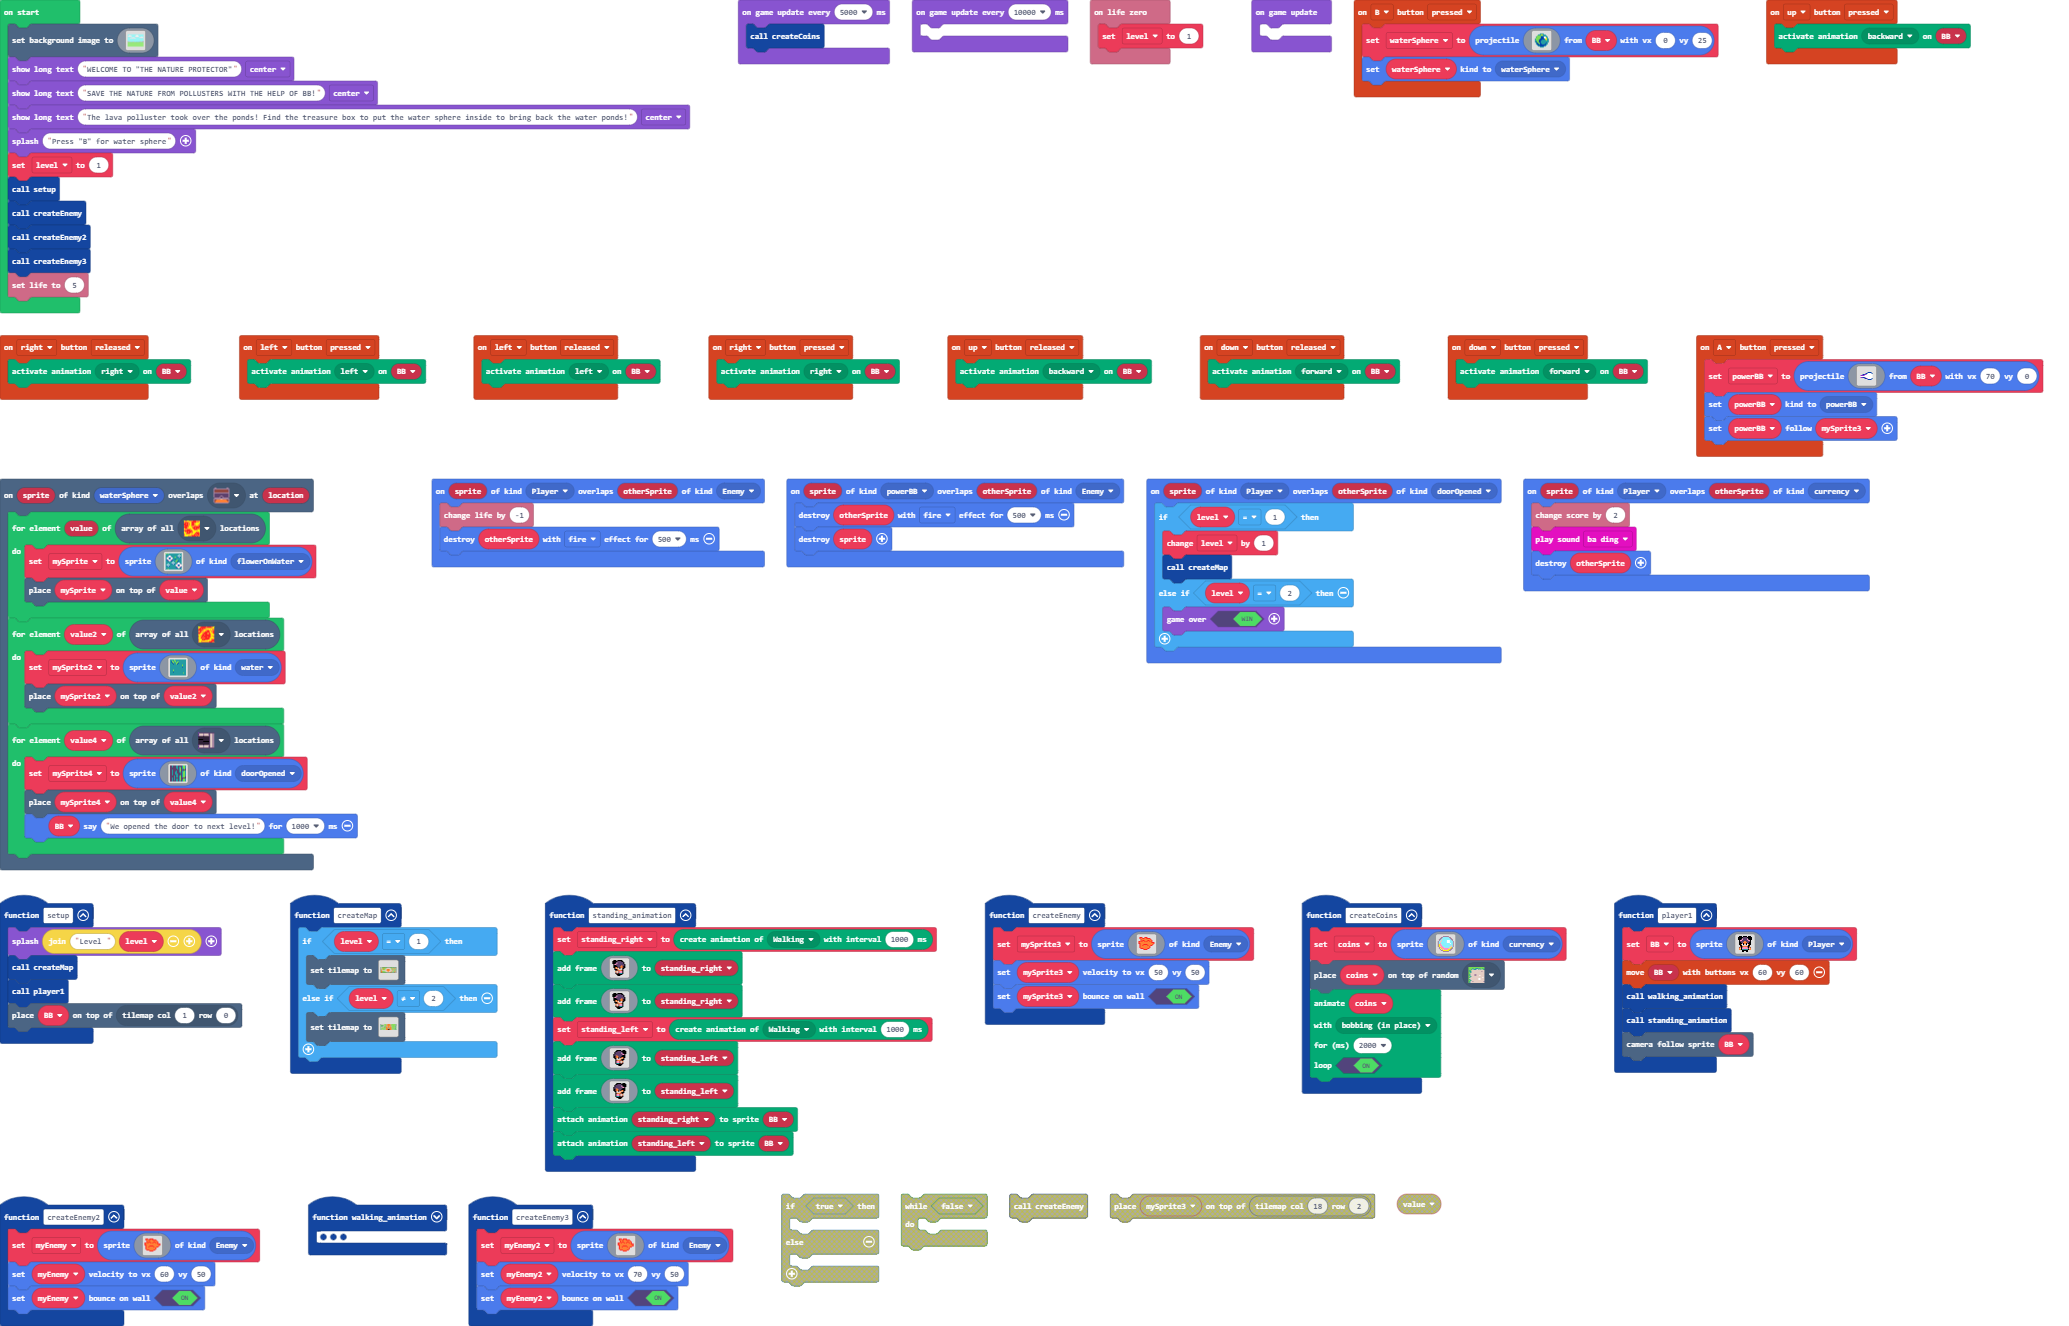
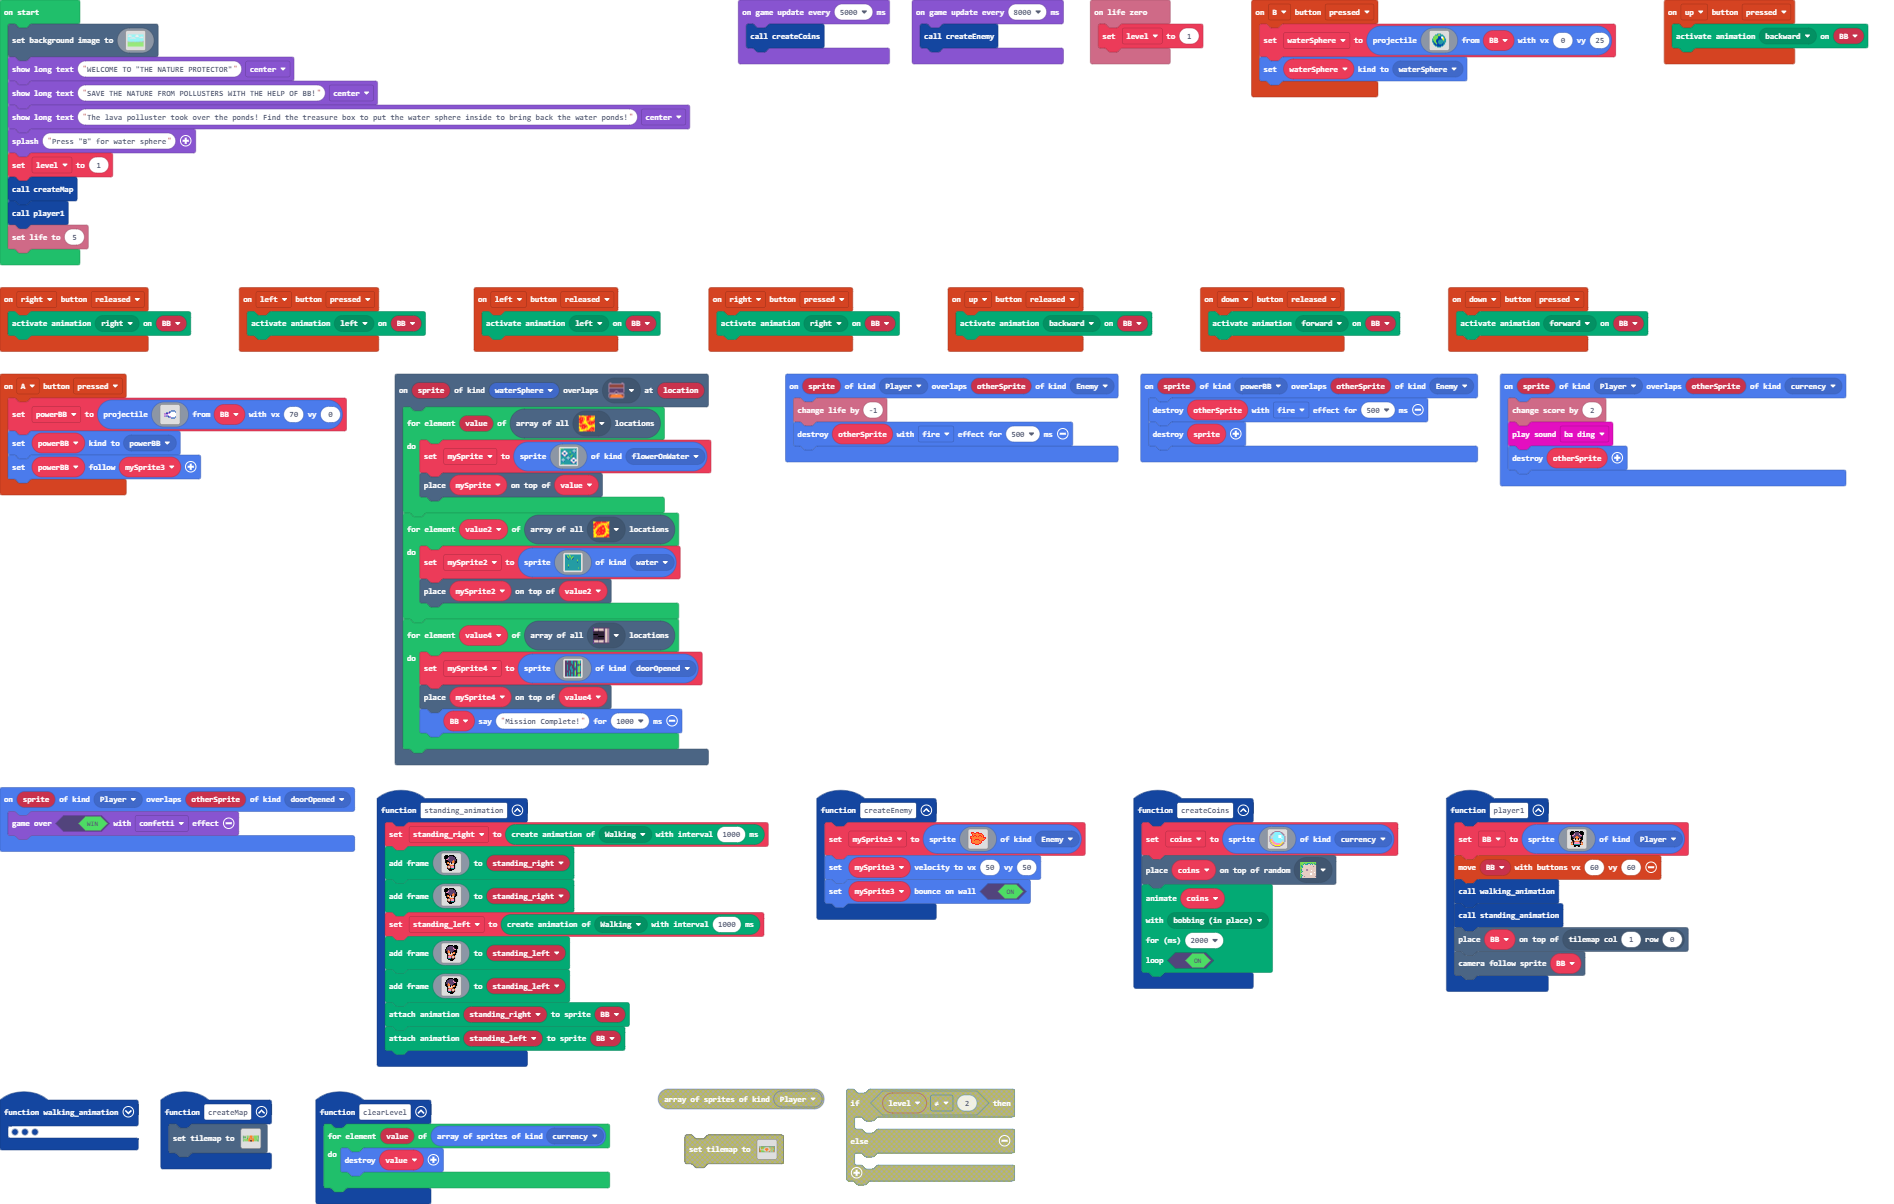
Finished Game!

diff --git a/tilemap.g.ts b/tilemap.g.ts
@@ -317,6 +317,120 @@ namespace myTiles {
 . . . . . . . . . . . . . . . . 
 . . . . . . . . . . . . . . . . 
 `, [myTiles.transparency16], TileScale.Sixteen);
+            case "level15":
+            case "level15":return tiles.createTilemap(hex`1000100000000000000000000000000000000000000000000000000000000000000000000000000000000000000000000000000000000000000000000000000000000000000000000000000000000000000000000000000000000000000000000000000000000000000000000000000000000000000000000000000000000000000000000000000000000000000000000000000000000000000000000000000000000000000000000000000000000000000000000000000000000000000000000000000000000000000000000000000000000000000000000000000000000000000000000000000000000000000000000000000000000000000000000000000000000000`, img`
+. . . . . . . . . . . . . . . . 
+. . . . . . . . . . . . . . . . 
+. . . . . . . . . . . . . . . . 
+. . . . . . . . . . . . . . . . 
+. . . . . . . . . . . . . . . . 
+. . . . . . . . . . . . . . . . 
+. . . . . . . . . . . . . . . . 
+. . . . . . . . . . . . . . . . 
+. . . . . . . . . . . . . . . . 
+. . . . . . . . . . . . . . . . 
+. . . . . . . . . . . . . . . . 
+. . . . . . . . . . . . . . . . 
+. . . . . . . . . . . . . . . . 
+. . . . . . . . . . . . . . . . 
+. . . . . . . . . . . . . . . . 
+. . . . . . . . . . . . . . . . 
+`, [myTiles.transparency16], TileScale.Sixteen);
+            case "level16":
+            case "level16":return tiles.createTilemap(hex`1000100000000000000000000000000000000000000000000000000000000000000000000000000000000000000000000000000000000000000000000000000000000000000000000000000000000000000000000000000000000000000000000000000000000000000000000000000000000000000000000000000000000000000000000000000000000000000000000000000000000000000000000000000000000000000000000000000000000000000000000000000000000000000000000000000000000000000000000000000000000000000000000000000000000000000000000000000000000000000000000000000000000000000000000000000000000000`, img`
+. . . . . . . . . . . . . . . . 
+. . . . . . . . . . . . . . . . 
+. . . . . . . . . . . . . . . . 
+. . . . . . . . . . . . . . . . 
+. . . . . . . . . . . . . . . . 
+. . . . . . . . . . . . . . . . 
+. . . . . . . . . . . . . . . . 
+. . . . . . . . . . . . . . . . 
+. . . . . . . . . . . . . . . . 
+. . . . . . . . . . . . . . . . 
+. . . . . . . . . . . . . . . . 
+. . . . . . . . . . . . . . . . 
+. . . . . . . . . . . . . . . . 
+. . . . . . . . . . . . . . . . 
+. . . . . . . . . . . . . . . . 
+. . . . . . . . . . . . . . . . 
+`, [myTiles.transparency16], TileScale.Sixteen);
+            case "level17":
+            case "level17":return tiles.createTilemap(hex`1000100000000000000000000000000000000000000000000000000000000000000000000000000000000000000000000000000000000000000000000000000000000000000000000000000000000000000000000000000000000000000000000000000000000000000000000000000000000000000000000000000000000000000000000000000000000000000000000000000000000000000000000000000000000000000000000000000000000000000000000000000000000000000000000000000000000000000000000000000000000000000000000000000000000000000000000000000000000000000000000000000000000000000000000000000000000000`, img`
+. . . . . . . . . . . . . . . . 
+. . . . . . . . . . . . . . . . 
+. . . . . . . . . . . . . . . . 
+. . . . . . . . . . . . . . . . 
+. . . . . . . . . . . . . . . . 
+. . . . . . . . . . . . . . . . 
+. . . . . . . . . . . . . . . . 
+. . . . . . . . . . . . . . . . 
+. . . . . . . . . . . . . . . . 
+. . . . . . . . . . . . . . . . 
+. . . . . . . . . . . . . . . . 
+. . . . . . . . . . . . . . . . 
+. . . . . . . . . . . . . . . . 
+. . . . . . . . . . . . . . . . 
+. . . . . . . . . . . . . . . . 
+. . . . . . . . . . . . . . . . 
+`, [myTiles.transparency16], TileScale.Sixteen);
+            case "level18":
+            case "level18":return tiles.createTilemap(hex`1000100000000000000000000000000000000000000000000000000000000000000000000000000000000000000000000000000000000000000000000000000000000000000000000000000000000000000000000000000000000000000000000000000000000000000000000000000000000000000000000000000000000000000000000000000000000000000000000000000000000000000000000000000000000000000000000000000000000000000000000000000000000000000000000000000000000000000000000000000000000000000000000000000000000000000000000000000000000000000000000000000000000000000000000000000000000000`, img`
+. . . . . . . . . . . . . . . . 
+. . . . . . . . . . . . . . . . 
+. . . . . . . . . . . . . . . . 
+. . . . . . . . . . . . . . . . 
+. . . . . . . . . . . . . . . . 
+. . . . . . . . . . . . . . . . 
+. . . . . . . . . . . . . . . . 
+. . . . . . . . . . . . . . . . 
+. . . . . . . . . . . . . . . . 
+. . . . . . . . . . . . . . . . 
+. . . . . . . . . . . . . . . . 
+. . . . . . . . . . . . . . . . 
+. . . . . . . . . . . . . . . . 
+. . . . . . . . . . . . . . . . 
+. . . . . . . . . . . . . . . . 
+. . . . . . . . . . . . . . . . 
+`, [myTiles.transparency16], TileScale.Sixteen);
+            case "level19":
+            case "level19":return tiles.createTilemap(hex`1000100000000000000000000000000000000000000000000000000000000000000000000000000000000000000000000000000000000000000000000000000000000000000000000000000000000000000000000000000000000000000000000000000000000000000000000000000000000000000000000000000000000000000000000000000000000000000000000000000000000000000000000000000000000000000000000000000000000000000000000000000000000000000000000000000000000000000000000000000000000000000000000000000000000000000000000000000000000000000000000000000000000000000000000000000000000000`, img`
+. . . . . . . . . . . . . . . . 
+. . . . . . . . . . . . . . . . 
+. . . . . . . . . . . . . . . . 
+. . . . . . . . . . . . . . . . 
+. . . . . . . . . . . . . . . . 
+. . . . . . . . . . . . . . . . 
+. . . . . . . . . . . . . . . . 
+. . . . . . . . . . . . . . . . 
+. . . . . . . . . . . . . . . . 
+. . . . . . . . . . . . . . . . 
+. . . . . . . . . . . . . . . . 
+. . . . . . . . . . . . . . . . 
+. . . . . . . . . . . . . . . . 
+. . . . . . . . . . . . . . . . 
+. . . . . . . . . . . . . . . . 
+. . . . . . . . . . . . . . . . 
+`, [myTiles.transparency16], TileScale.Sixteen);
+            case "level20":
+            case "level20":return tiles.createTilemap(hex`1000100000000000000000000000000000000000000000000000000000000000000000000000000000000000000000000000000000000000000000000000000000000000000000000000000000000000000000000000000000000000000000000000000000000000000000000000000000000000000000000000000000000000000000000000000000000000000000000000000000000000000000000000000000000000000000000000000000000000000000000000000000000000000000000000000000000000000000000000000000000000000000000000000000000000000000000000000000000000000000000000000000000000000000000000000000000000`, img`
+. . . . . . . . . . . . . . . . 
+. . . . . . . . . . . . . . . . 
+. . . . . . . . . . . . . . . . 
+. . . . . . . . . . . . . . . . 
+. . . . . . . . . . . . . . . . 
+. . . . . . . . . . . . . . . . 
+. . . . . . . . . . . . . . . . 
+. . . . . . . . . . . . . . . . 
+. . . . . . . . . . . . . . . . 
+. . . . . . . . . . . . . . . . 
+. . . . . . . . . . . . . . . . 
+. . . . . . . . . . . . . . . . 
+. . . . . . . . . . . . . . . . 
+. . . . . . . . . . . . . . . . 
+. . . . . . . . . . . . . . . . 
+. . . . . . . . . . . . . . . . 
+`, [myTiles.transparency16], TileScale.Sixteen);
         }
         return null;
     })

diff --git a/main.ts b/main.ts
@@ -42,11 +42,7 @@ controller.B.onEvent(ControllerButtonEvent.Pressed, function () {
     waterSphere.setKind(SpriteKind.waterSphere)
 })
 function createMap () {
-    if (level == 1) {
-        tiles.setTilemap(tilemap`level9`)
-    } else if (level != 2) {
-        tiles.setTilemap(tilemap`level10`)
-    }
+    tiles.setTilemap(tilemap`level10`)
 }
 function standing_animation () {
     standing_right = animation.createAnimation(ActionKind.standing_right, 1000)
@@ -219,7 +215,7 @@ scene.onOverlapTile(SpriteKind.waterSphere, assets.tile`myTile25`, function (spr
             c c 6 c c c 6 6 c 6 6 c 6 7 7 6 
             `, SpriteKind.doorOpened)
         tiles.placeOnTile(mySprite4, value4)
-        BB.say("We opened the door to next level!", 1000)
+        BB.say("Mission Complete!", 1000)
     }
 })
 controller.left.onEvent(ControllerButtonEvent.Pressed, function () {
@@ -253,35 +249,8 @@ function createEnemy () {
     mySprite3.setVelocity(50, 50)
     mySprite3.setBounceOnWall(true)
 }
-function createEnemy2 () {
-    myEnemy = sprites.create(img`
-        . . . . . . . . . . . . . . . . 
-        . 2 2 2 . 2 2 2 2 . . . . . . . 
-        . 2 4 4 2 2 4 4 2 2 2 2 . . . . 
-        . . 2 4 4 4 4 4 4 4 4 4 2 . . . 
-        . . 2 4 2 2 4 4 4 2 2 4 4 2 . . 
-        2 2 4 2 4 4 2 4 2 4 4 2 4 2 . . 
-        2 4 4 4 4 4 4 4 4 4 4 4 4 2 2 2 
-        2 2 4 4 4 4 4 4 4 4 4 4 4 4 4 2 
-        . 2 4 4 4 2 2 2 2 4 4 4 4 4 2 . 
-        . 2 4 4 2 4 4 4 4 2 4 4 2 2 . . 
-        . 2 4 4 4 4 4 4 4 4 4 2 . . . . 
-        . 2 4 4 4 4 4 4 4 4 4 2 . . . . 
-        . . 2 2 2 4 4 4 4 2 2 . . . . . 
-        . . . . . 2 2 2 2 . . . . . . . 
-        . . . . . . . . . . . . . . . . 
-        . . . . . . . . . . . . . . . . 
-        `, SpriteKind.Enemy)
-    myEnemy.setVelocity(60, 50)
-    myEnemy.setBounceOnWall(true)
-}
 sprites.onOverlap(SpriteKind.Player, SpriteKind.doorOpened, function (sprite, otherSprite) {
-    if (level == 1) {
-        level += 1
-        createMap()
-    } else if (level == 2) {
-        game.over(true)
-    }
+    game.over(true, effects.confetti)
 })
 controller.right.onEvent(ControllerButtonEvent.Pressed, function () {
     animation.setAction(BB, ActionKind.right)
@@ -308,6 +277,7 @@ function player1 () {
     controller.moveSprite(BB, 60, 60)
     walking_animation()
     standing_animation()
+    tiles.placeOnTile(BB, tiles.getTileLocation(1, 0))
     scene.cameraFollowSprite(BB)
 }
 controller.up.onEvent(ControllerButtonEvent.Released, function () {
@@ -320,37 +290,9 @@ sprites.onOverlap(SpriteKind.powerBB, SpriteKind.Enemy, function (sprite, otherS
     otherSprite.destroy(effects.fire, 500)
     sprite.destroy()
 })
-function createEnemy3 () {
-    myEnemy2 = sprites.create(img`
-        . . . . . . . . . . . . . . . . 
-        . 2 2 2 . 2 2 2 2 . . . . . . . 
-        . 2 4 4 2 2 4 4 2 2 2 2 . . . . 
-        . . 2 4 4 4 4 4 4 4 4 4 2 . . . 
-        . . 2 4 2 2 4 4 4 2 2 4 4 2 . . 
-        2 2 4 2 4 4 2 4 2 4 4 2 4 2 . . 
-        2 4 4 4 4 4 4 4 4 4 4 4 4 2 2 2 
-        2 2 4 4 4 4 4 4 4 4 4 4 4 4 4 2 
-        . 2 4 4 4 2 2 2 2 4 4 4 4 4 2 2 
-        . 2 4 4 2 4 4 4 4 2 4 4 2 2 . . 
-        . 2 4 4 4 4 4 4 4 4 4 2 . . . . 
-        . 2 4 4 4 4 4 4 4 4 4 2 . . . . 
-        . . 2 2 2 4 4 4 4 2 2 . . . . . 
-        . . . . . 2 2 2 2 . . . . . . . 
-        . . . . . . . . . . . . . . . . 
-        . . . . . . . . . . . . . . . . 
-        `, SpriteKind.Enemy)
-    myEnemy2.setVelocity(70, 50)
-    myEnemy2.setBounceOnWall(true)
-}
 info.onLifeZero(function () {
     level = 1
 })
-function setup () {
-    game.splash("Level " + level)
-    createMap()
-    player1()
-    tiles.placeOnTile(BB, tiles.getTileLocation(1, 0))
-}
 function createCoins () {
     coins = sprites.create(img`
         . . . . . b b b b b b . . . . . 
@@ -377,6 +319,11 @@ function createCoins () {
     2000,
     true
     )
+}
+function clearLevel () {
+    for (let value of sprites.allOfKind(SpriteKind.currency)) {
+        value.destroy()
+    }
 }
 function walking_animation () {
     anim_walk_right = animation.createAnimation(ActionKind.right, 100)
@@ -685,8 +632,6 @@ let anim_walking_forward: animation.Animation = null
 let anim_walk_left: animation.Animation = null
 let anim_walk_right: animation.Animation = null
 let coins: Sprite = null
-let myEnemy2: Sprite = null
-let myEnemy: Sprite = null
 let mySprite4: Sprite = null
 let mySprite2: Sprite = null
 let mySprite: Sprite = null
@@ -824,17 +769,12 @@ game.showLongText("SAVE THE NATURE FROM POLLUSTERS WITH THE HELP OF BB!", Dialog
 game.showLongText("The lava polluster took over the ponds! Find the treasure box to put the water sphere inside to bring back the water ponds!", DialogLayout.Center)
 game.splash("Press \"B\" for water sphere")
 level = 1
-setup()
-createEnemy()
-createEnemy2()
-createEnemy3()
+createMap()
+player1()
 info.setLife(5)
-game.onUpdate(function () {
-	
-})
 game.onUpdateInterval(5000, function () {
     createCoins()
 })
-game.onUpdateInterval(10000, function () {
-	
+game.onUpdateInterval(8000, function () {
+    createEnemy()
 })
